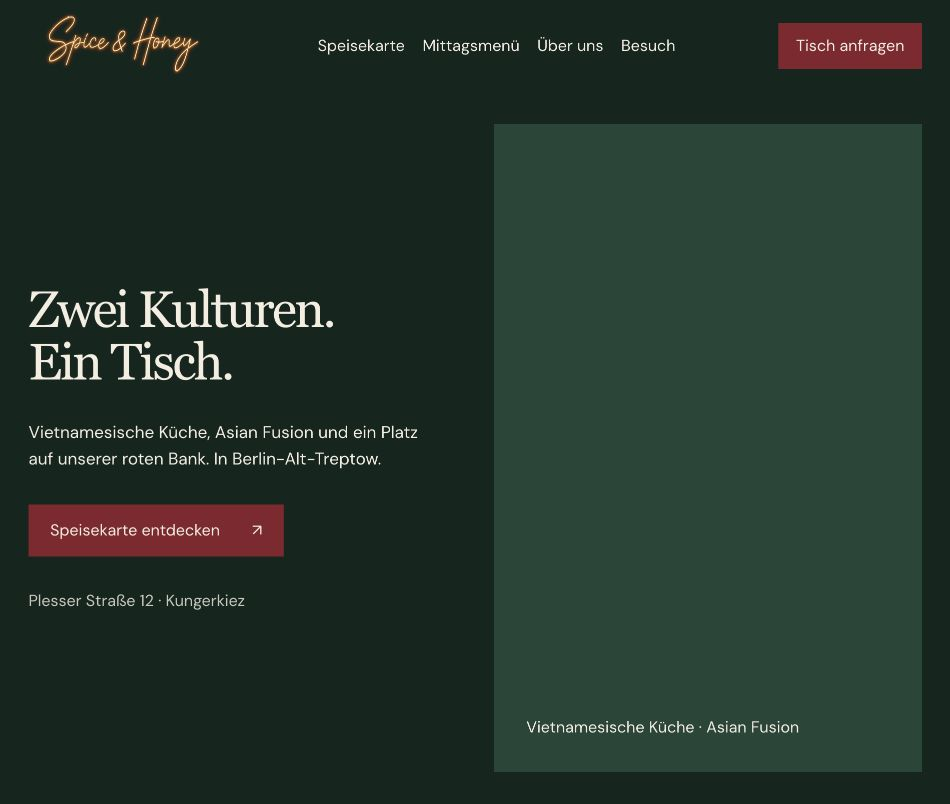
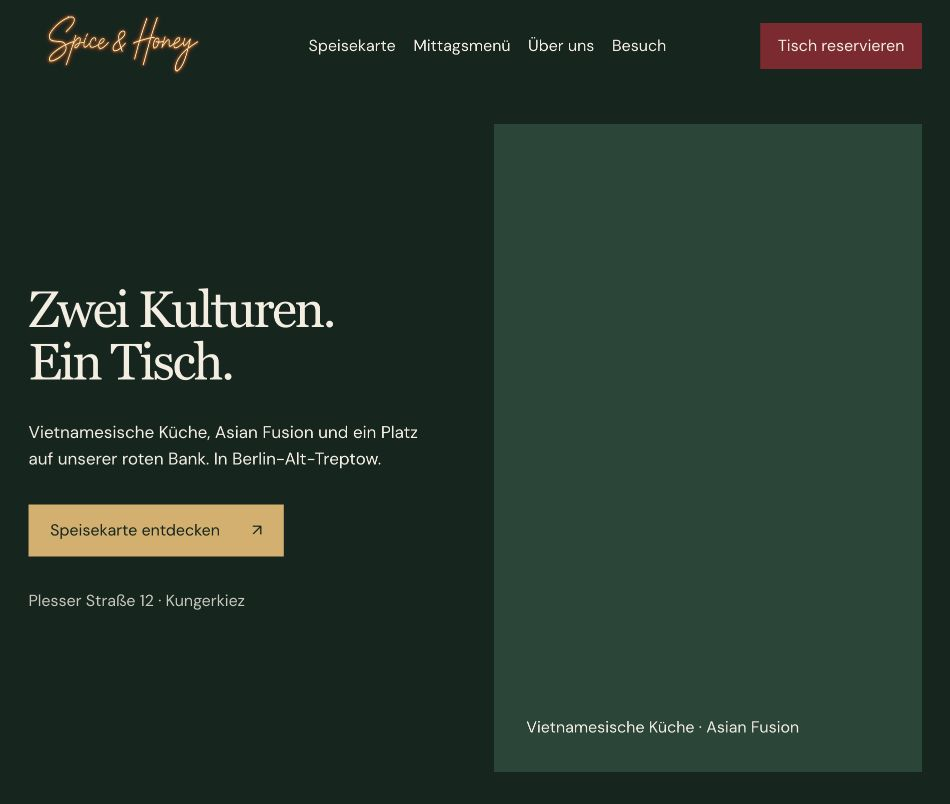
Connect table reservation links to the restaurant's Tebi booking page

Changed region(s): [[0.0305, 0.6219, 0.3053, 0.7152], [0.3358, 0.0311, 0.7021, 0.0622], [0.7937, 0.0311, 0.9463, 0.0933]]

diff --git a/index.html b/index.html
@@ -36,7 +36,7 @@
       <nav aria-label="Hauptnavigation">
         <a href="#speisekarte">Speisekarte</a><a href="#mittagsmenue">Mittagsmenü</a><a href="#ueber-uns">Über uns</a><a href="#besuch">Besuch</a>
       </nav>
-      <a class="header-action" href="mailto:spice.honeyberlin@gmail.com?subject=Tischanfrage%20Spice%20%26%20Honey">Tisch anfragen</a>
+      <a class="header-action" href="https://live.tebi.co/ecom/reservations/119527_753027f09d9cb0acf2cecff39a4007ae61cdae2866c32d1fbc48e51e81a94f95" target="_blank" rel="noopener noreferrer">Tisch reservieren</a>
       <button class="nav-toggle" aria-expanded="false" aria-controls="mobile-nav">Menü</button>
       <nav id="mobile-nav" aria-label="Mobile Navigation" hidden>
         <a href="#speisekarte">Speisekarte</a><a href="#mittagsmenue">Mittagsmenü</a><a href="#ueber-uns">Über uns</a><a href="#besuch">Besuch &amp; Kontakt</a>
@@ -130,7 +130,7 @@
           </dl>
           <a class="button" href="https://www.google.com/maps/dir/?api=1&amp;destination=Spice%20%26%20Honey%2C%20Plesser%20Stra%C3%9Fe%2012%2C%2012435%20Berlin" target="_blank" rel="noopener noreferrer" data-reveal>Route planen <span aria-hidden="true">↗</span></a>
           <a class="contact-mail" href="mailto:spice.honeyberlin@gmail.com">spice.honeyberlin@gmail.com</a>
-          <a class="text-link" href="mailto:spice.honeyberlin@gmail.com?subject=Tischanfrage%20Spice%20%26%20Honey&amp;body=Hallo%20Spice%20%26%20Honey%2C%0Aich%20m%C3%B6chte%20einen%20Tisch%20anfragen.%0ADatum%3A%0AUhrzeit%3A%0APersonen%3A%0AName%3A%0AVielen%20Dank!">Tisch per E-Mail anfragen</a>
+          <a class="text-link" href="https://live.tebi.co/ecom/reservations/119527_753027f09d9cb0acf2cecff39a4007ae61cdae2866c32d1fbc48e51e81a94f95" target="_blank" rel="noopener noreferrer">Tisch reservieren <span aria-hidden="true">↗</span></a>
         </div>
       </section>
     </main>

diff --git a/datenschutz.html b/datenschutz.html
@@ -45,14 +45,22 @@
         Browser-Speicher und bindet keine Analyse-, Werbe- oder Trackingdienste
         ein.
       </p>
-      <h2>E-Mail und Tischanfragen</h2>
+      <h2>E-Mail-Kontakt</h2>
       <p>
         Die Kontaktlinks öffnen dein E-Mail-Programm. Erst wenn du eine E-Mail
         absendest, übermittelst du uns die von dir eingetragenen Daten. Für
-        Tischanfragen sind Name, gewünschtes Datum, Uhrzeit und Personenzahl
-        vorgesehen. Die E-Mail-Adresse des Restaurants wird bei Gmail betrieben.
+        allgemeine Kontakt- und Mittagsmenüanfragen steht die geschäftliche
+        E-Mail-Adresse zur Verfügung. Sie wird bei Gmail betrieben.
         Angaben zur dortigen Verarbeitung, Aufbewahrung und zu den einschlägigen
         Rechtsgrundlagen werden vor dem Websitebetrieb vervollständigt.
+      </p>
+      <h2>Tischreservierung über Tebi</h2>
+      <p>
+        Die Links „Tisch reservieren“ öffnen unsere öffentliche Buchungsseite
+        bei Tebi in einem neuen Tab. Auf dieser Website wird kein Tebi-Widget
+        geladen. Erst nach dem Anklicken wird eine Verbindung zu Tebi hergestellt;
+        deine Reservierungsdaten gibst du dort ein. Für die Buchung gelten die
+        auf der Tebi-Buchungsseite bereitgestellten Datenschutzinformationen.
       </p>
       <h2>Externe Links</h2>
       <p>

diff --git a/styles.css b/styles.css
@@ -192,7 +192,7 @@ a.social-channel:is(:hover, :focus-visible) { background: var(--accent); color: 
 }
 @media (max-width: 760px) {
   :root { --heading: clamp(2.4rem, 8.5vw, 3.8rem); --display: clamp(2.8rem, 9.3vw, 4rem); --lead: 1.375rem; --margin: 1.25rem; }
-  .wordmark { width: 140px; height: 54px; }
+  .wordmark { width: 120px; height: 54px; }
   .site-header { gap: .5rem; }
   .site-header .header-action { font-size: .875rem; padding: .65rem .8rem; }
   .hero { grid-template-columns: 1fr; min-height: 0; padding-top: 1.5rem; padding-bottom: 0; gap: 2rem; }
@@ -229,7 +229,8 @@ a.social-channel:is(:hover, :focus-visible) { background: var(--accent); color: 
 }
 @media (max-width: 370px) {
   :root { --margin: 1rem; }
-  .wordmark { width: 122px; height: 50px; }
+  .wordmark { width: 96px; height: 50px; }
+  .site-header { gap: .25rem; }
   .site-header .header-action { font-size: .8125rem; padding-inline: .65rem; }
   .dish-title { gap: .75rem; }
   .hours div { flex-wrap: wrap; }

diff --git a/docs/qa.md b/docs/qa.md
@@ -106,3 +106,12 @@ Der große gesetzte Schriftzug wurde durch dieselbe originale Logo-Datei wie im 
 - Getränke-Direktlink aus Desktop- und mobiler Hauptnavigation entfernt. Getränkebereich und sämtliche Getränkekategorien bleiben über die Speisekarte verfügbar.
 - Build und Quell-Lint erfolgreich, git diff --check sauber. Inspector 0 FAIL / 0 WARN mit den bestehenden drei begründeten Ausnahmen. Fold-Screenshots bei 1440, 768 und 390 Pixeln angesehen; aktualisierte Hauptnavigation im Vorschau-Browser bestätigt.
 - Tebi-Integration noch offen: öffentlicher Reservierungslink oder restaurantbezogener Widget-Code vom Nutzer angefragt. Laut offizieller Dokumentation unter Back Office → Reservations → Settings → Widget verfügbar (https://help.tebi.com/en/articles/482820-set-up-the-reservation-widget). Keine Restaurant-ID oder URL geraten; bestehende E-Mail-Tischanfragen bleiben bis zur tatsächlichen Anbindung funktionsfähig.
+
+
+## Tebi-Reservierung verbunden
+
+- Öffentlichen Link vom Nutzer erhalten und exakt im Header sowie Besuchsbereich hinterlegt. Beide Links heißen „Tisch reservieren“, öffnen einen neuen Tab und verwenden noopener noreferrer. Alte E-Mail-Tischanfragen ersetzt; allgemeine Kontakt- und Mittagsmenü-E-Mails erhalten.
+- Tatsächlichen Header-Link im Browser geöffnet: Tebi zeigt „Spice & Honey“ und Auswahlfelder für Gästezahl, Datum und Zeit. Keine persönlichen Daten eingegeben und keine echte Reservierung erzeugt. Buchungsansicht als preview-tebi.png gesichert.
+- Datenschutzentwurf beschreibt den externen Tebi-Link und den Verbindungsaufbau erst beim Anklicken. Kein Widget-Skript oder iframe eingebunden.
+- Mobile Logo-Breite reduziert, damit der längere Reservierungsbutton und Menü zusammenpassen. Nachkorrektur bei 390px visuell bestätigt. Desktop- und Tablet-Kopfzeilen ebenfalls angesehen.
+- Build, Syntaxprüfung und Quell-Lint erfolgreich. Inspector nach Korrektur: 0 FAIL / 0 WARN bei 1440×900, 768×1024 und 390×844 mit den bisherigen drei begründeten Ausnahmen. git diff --check sauber.

diff --git a/docs/design-review.md b/docs/design-review.md
@@ -157,3 +157,8 @@ Diese Methode vermittelt zwischen den unterschiedlichen Beleuchtungen im Foto. D
 ## Dunkleres Bankrot und Gold bei Interaktion
 
 Die Nutzerkorrektur dunkelt den zuvor aus der Fotoreferenz abgeleiteten Ton auf #85232D ab; #611A22 vertieft die Social-Links. Gold #D9AE65 ersetzt cremefarbene Interaktionsflächen und kennzeichnet sowohl Hover als auch sichtbaren Tastaturfokus. Dunkelgrüne Schrift hält diese Flächen lesbar. Die aktivierte Speisen-/Getränkeauswahl greift ebenfalls Gold auf. Desktop, Tablet und Handy zeigen weiterhin dieselbe Markenkomposition ohne neue Gestaltungselemente.
+
+
+## Öffentliche Tebi-Reservierung
+
+Die bisherigen E-Mail-Tischanfragen im Header und Besuchsbereich führen jetzt als „Tisch reservieren“ direkt zur vom Betreiber gelieferten Tebi-Buchungsseite. Ein gewöhnlicher Link im neuen Tab hält das native Buchungsformular bei Tebi; die Website lädt dafür kein externes Widget. Allgemeine E-Mail- und Mittagsmenüanfragen bleiben getrennt erreichbar. In der mobilen Kopfzeile wird das Logo etwas schmaler dargestellt, damit Logo, Reservierungsbutton und Menü auf einer Zeile bleiben. Farben und Interaktionszustände bleiben erhalten.

diff --git a/README.md b/README.md
@@ -12,7 +12,7 @@ Responsive Restaurantwebsite für **Spice & Honey**, Plesser Straße 12, Berlin-
 - Speisen-/Getränkebereiche mit Kategorien und Gerichtskarten; eigener Über-uns-Bereich.
 - Mittagsmenü-Reiter mit wechselnden Beispielen aus der Tafelkarte für Bürogäste.
 - Eigener Instagram-/TikTok-Bereich und kompakter Footer mit kleinem Original-Logo und rechtlichen Links.
-- Tischanfragen per E-Mail an das Restaurant.
+- Tischreservierung über den öffentlichen Tebi-Buchungslink; erreichbar im Header und im Besuchsbereich. Allgemeine Kontakt- und Mittagsmenüanfragen weiterhin per E-Mail.
 - Öffnungszeiten, geschäftliche E-Mail und Routenlink.
 - Sichtbarer Tastaturfokus, native Kategorielinks mit markierter Auswahl, Live-Rückmeldung und reduzierte Bewegung.
 - Lokale WebP-Bilder und Schriftdatei. Keine Tracker, Cookies oder externen Laufzeitbibliotheken.
